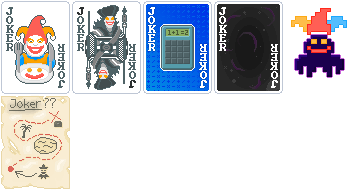
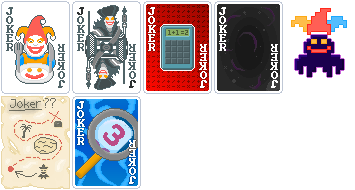
Added Magnifying Glass Joker and change Calculator Joker Texture

Changed region(s): [[0.1859, 0.5, 0.4028, 1.0], [0.4028, 0.0, 0.5887, 0.5]]

diff --git a/README.md b/README.md
@@ -1,0 +1,14 @@
+# Balatro+
+A Balatro mod that add new things to balatro
+
+# What This Mod Adds?
+- 6 New Jokers
+
+# How To Install
+- Install [Steamodded](https://github.com/Steamopollys/Steamodded)
+- [Download this repository](https://github.com/SomeCoder99/balatro-plus/archive/refs/heads/main.zip)
+- Extract downloaded archive
+- Move/Copy extracted folder to Mod Directory
+    - Windows Mod Directory: `%AppData%/Balatro/Mods`
+    - Mac Mod Directory: `~/Library/Application Support/Balatro/Mods`
+    - Linux (WINE/Proton) Mod Directory: `~/.local/share/Steam/steamapps/compatdata/2379780/pfx/drive_c/users/steamuser/AppData/Roaming/Balatro/Mods`
